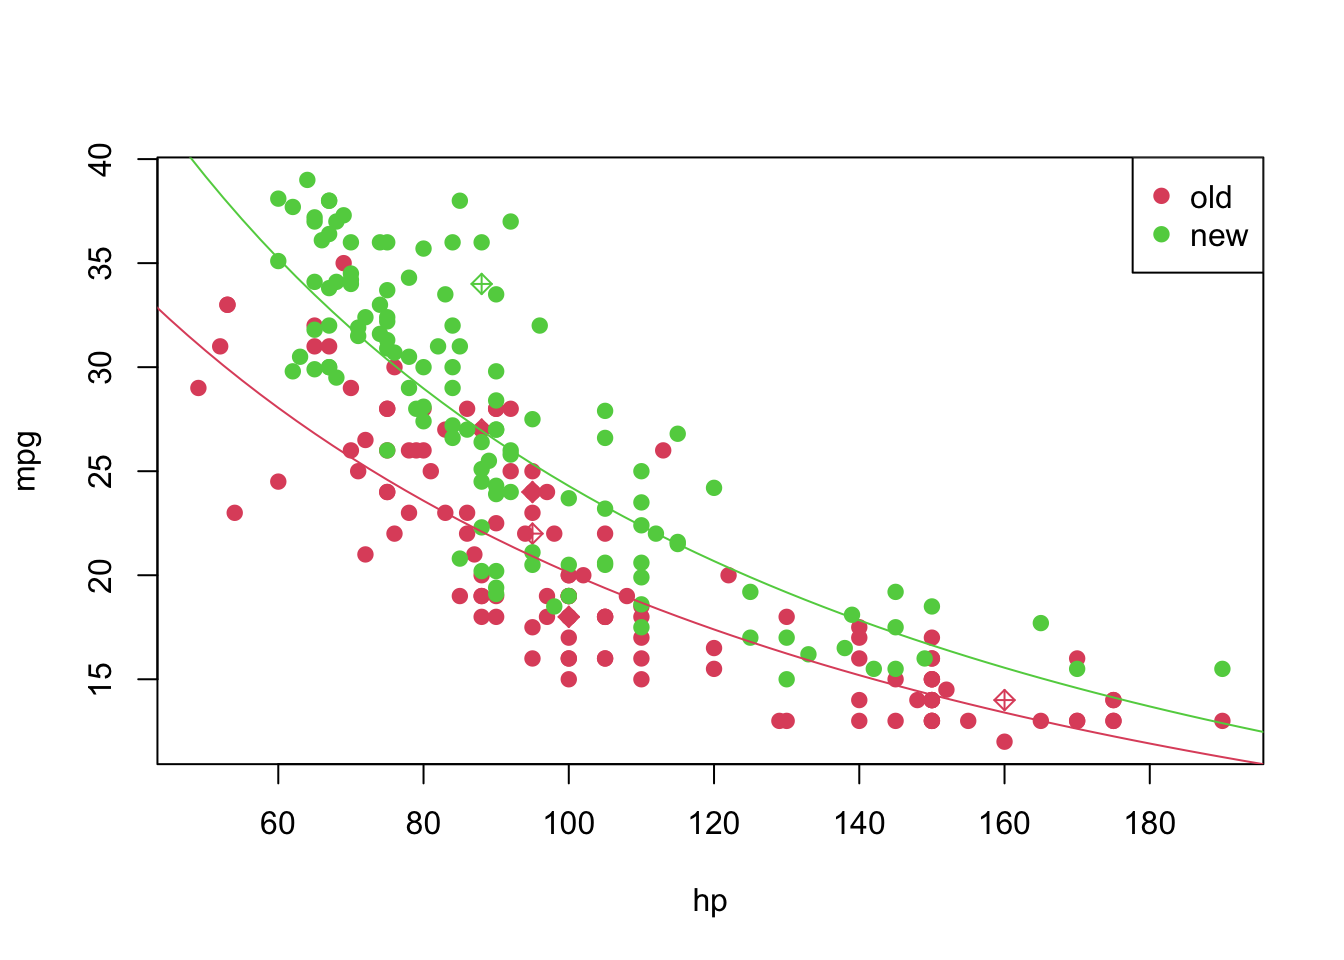
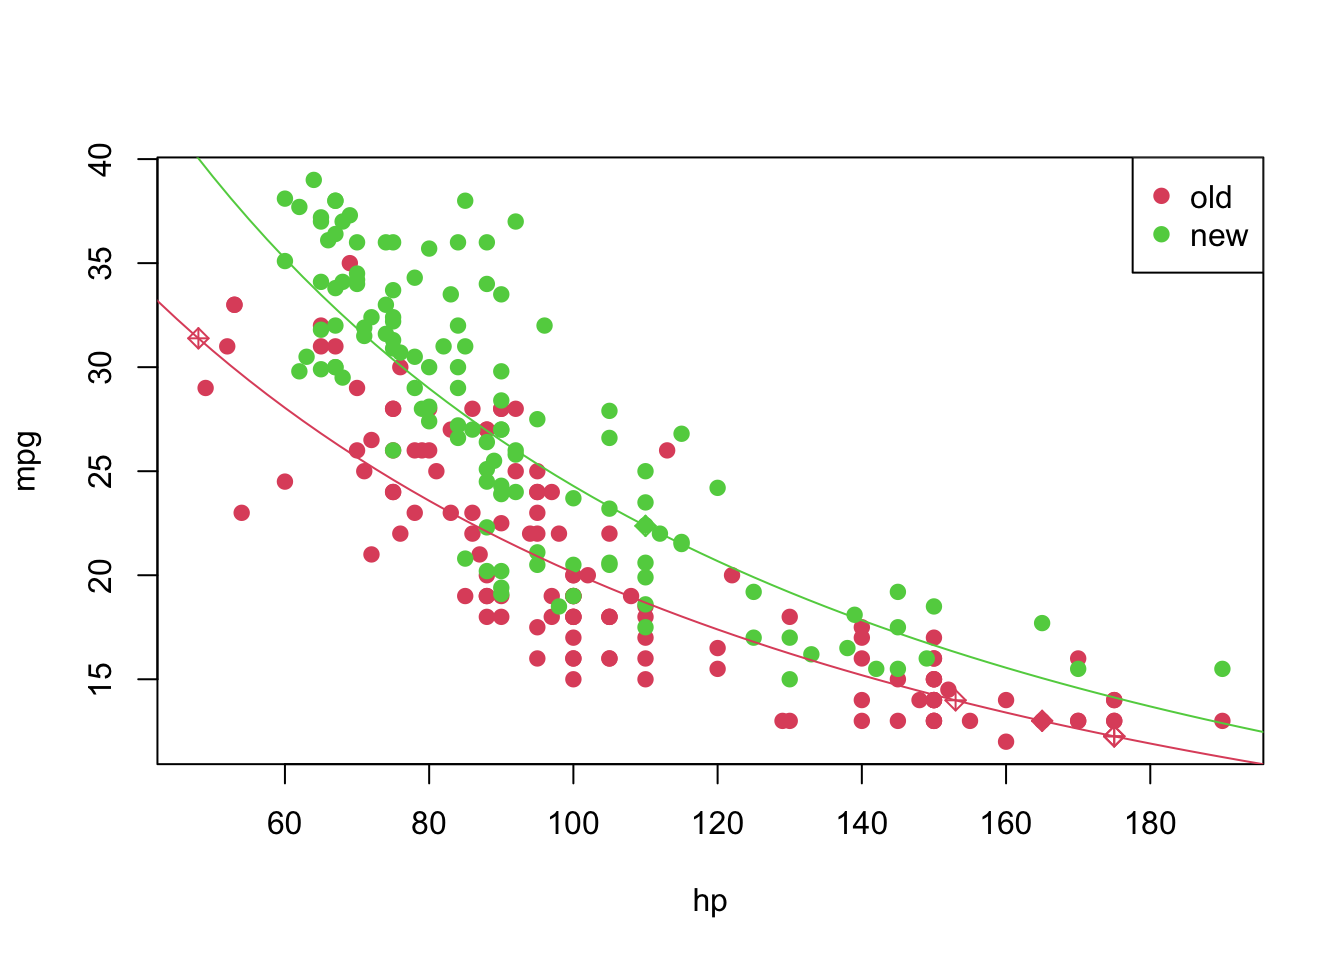
fix problem 1

diff --git a/docs/case_study_01.html b/docs/case_study_01.html
@@ -648,7 +648,7 @@ unknown &lt;- car2[is.na(car2$mpg), ]
 <pre class="r"><code>car2[is.na(car2$mpg), &#39;mpg&#39;] &lt;- predicted_values
 
 pch &lt;- rep(19, nrow(car2)); pch[pos_unk] &lt;- 9
-plot(mpg ~ hp, pch = pch, col = (as.numeric(year) + 1), data = car3)
+plot(mpg ~ hp, pch = pch, col = (as.numeric(year) + 1), data = car2)
 curve(transfData_back(coeffi[[1]] + coeffi[[2]] * x, lambda = lambda), from = 0, to = 250, add = TRUE, col = 2)
 curve(transfData_back((coeffi[[1]] + coeffi[[3]]) + coeffi[[2]] * x, lambda = lambda), from = 0, to = 250, add = TRUE, col = 3)
 legend(&#39;topright&#39;, c(&#39;old&#39;, &#39;new&#39;), col = unique(as.numeric(car3$year) + 1), pch = 19)</code></pre>
